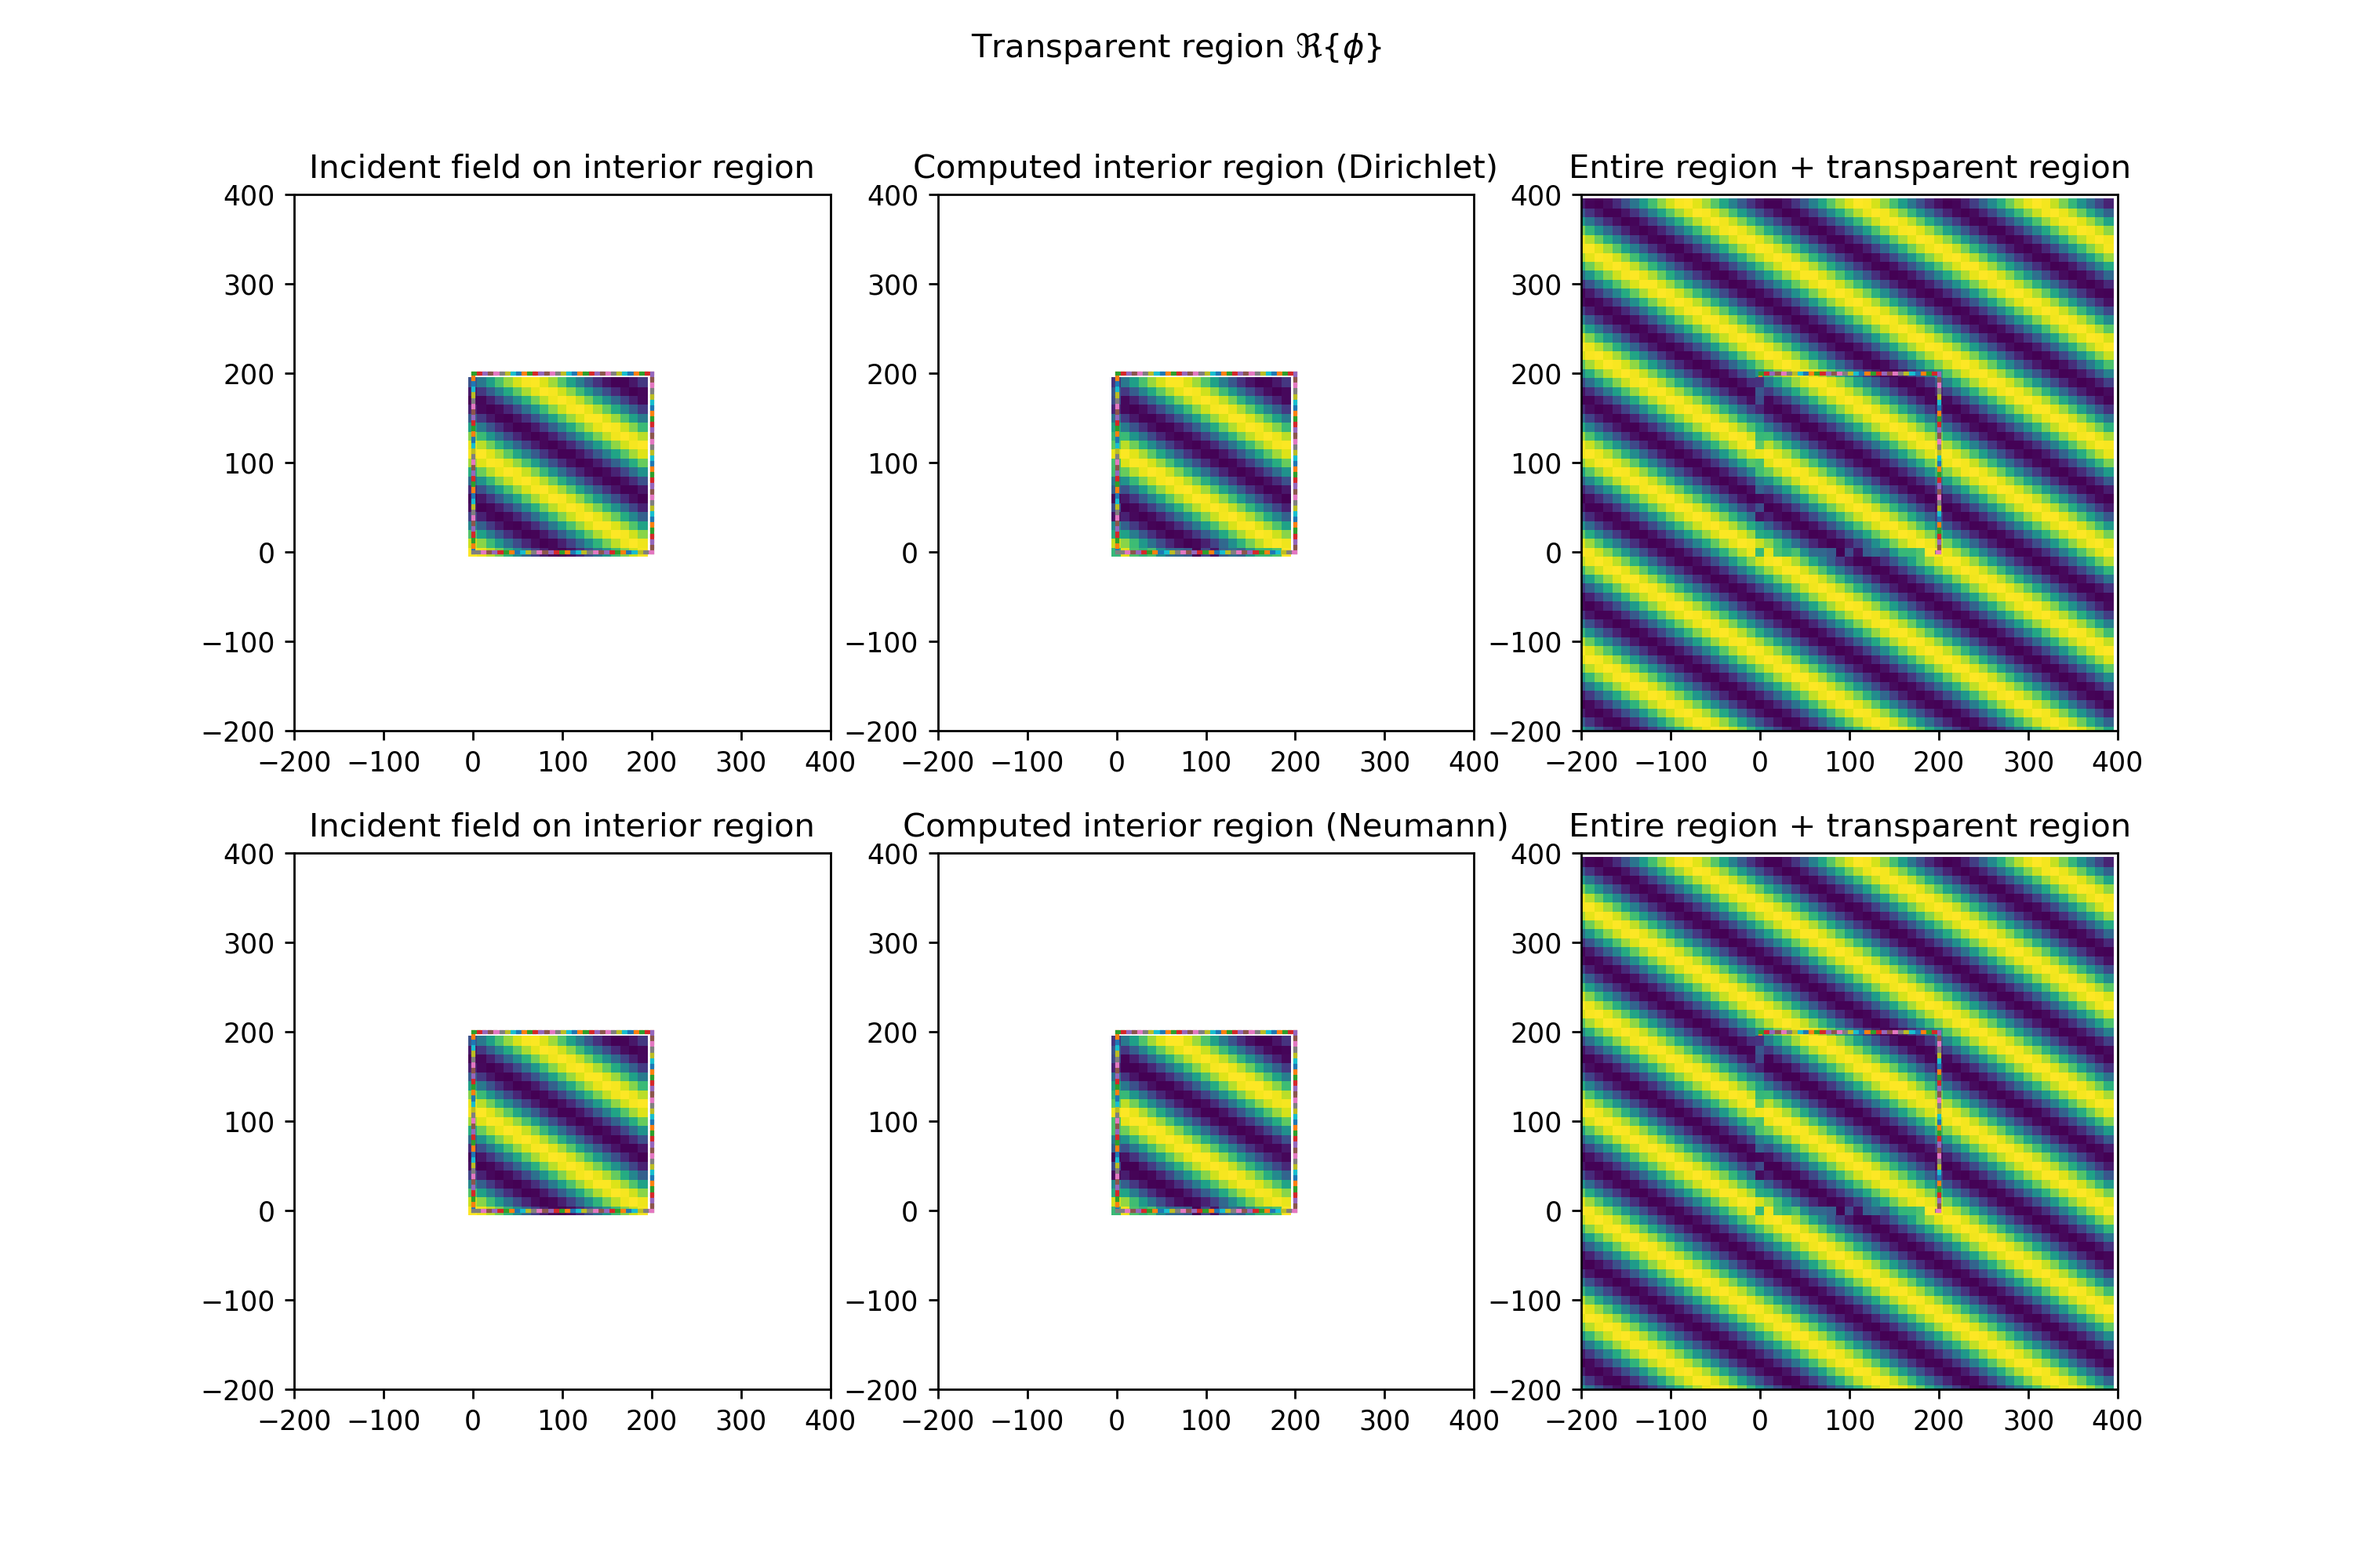
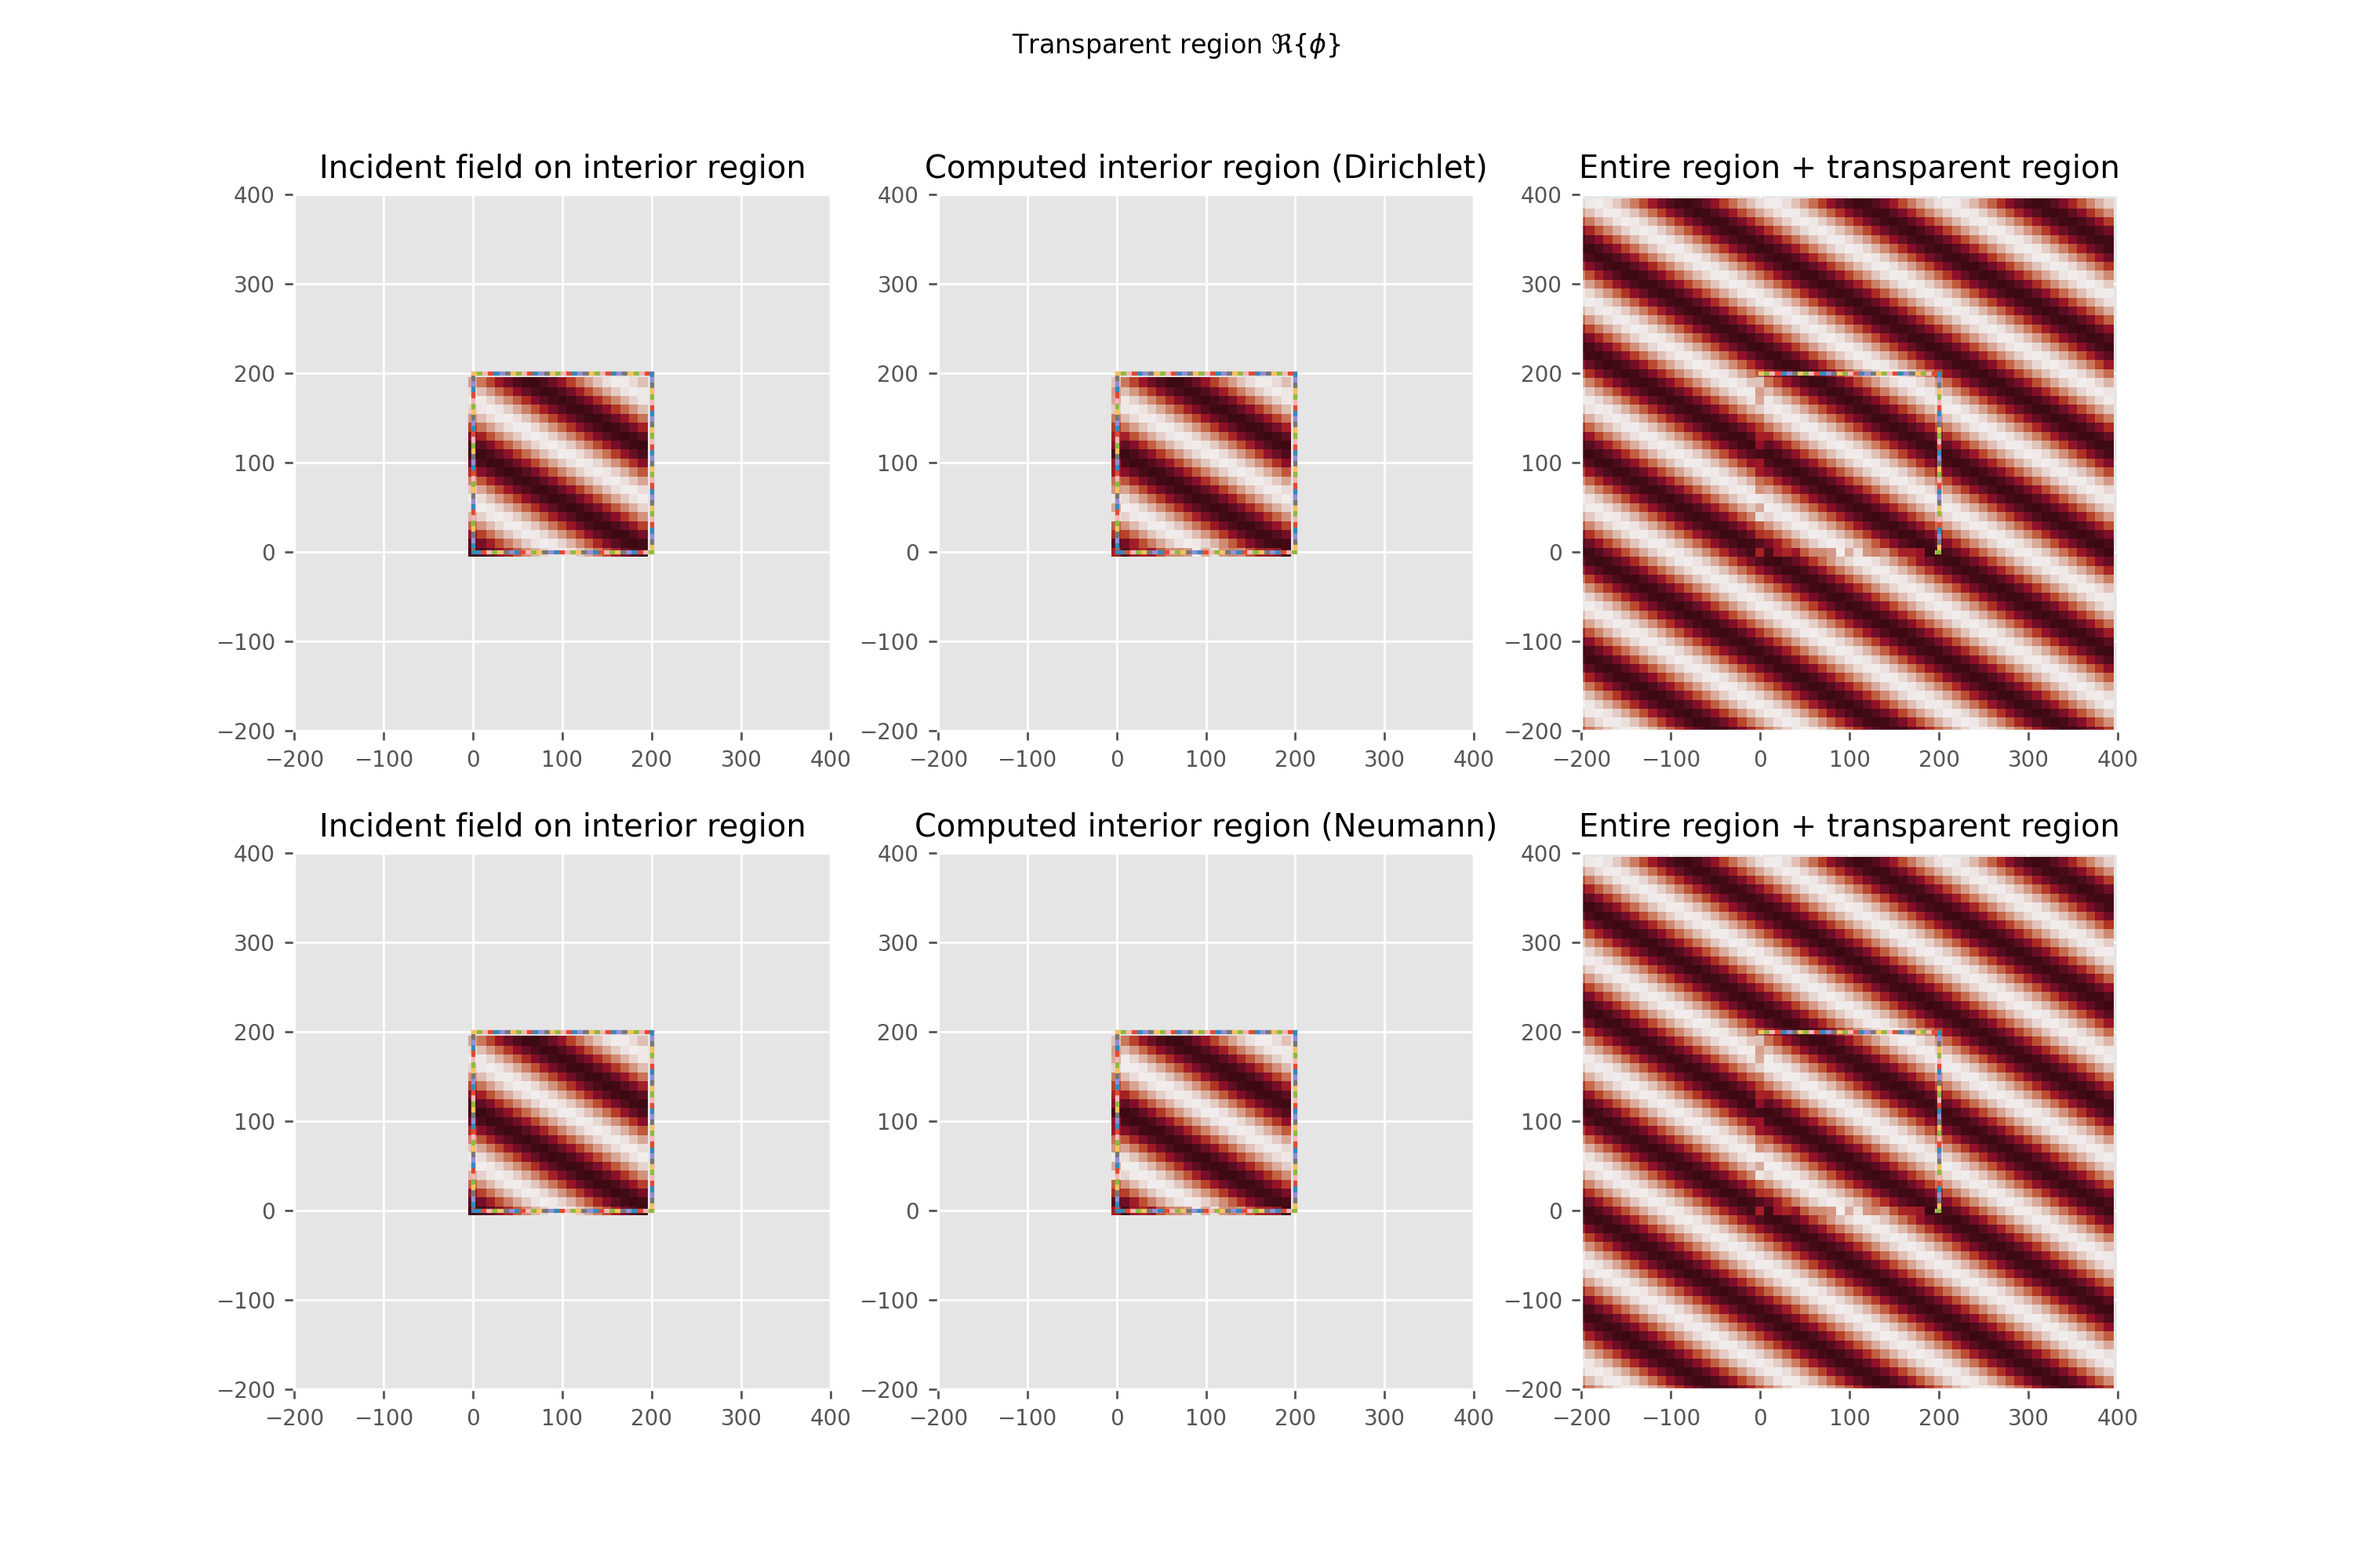
transparent oblique

diff --git a/python/ohbemn/__init__.py b/python/ohbemn/__init__.py
@@ -2,7 +2,16 @@ from .ohbemn import *  # rust implementation
 from . import ohpy
 from .ohpy import wave
 
-
 __doc__ = ohbemn.__doc__
 if hasattr(ohbemn, "__all__"):
     __all__ = ohbemn.__all__
+
+
+def style_plots():
+    import matplotlib as mpl
+    import cmocean
+    mpl.style.use('ggplot')
+    mpl.rc('image', cmap='cmo.amp')
+
+    font = {'size': 8}
+    mpl.rc('font', **font)

diff --git a/examples/transparent_region.py b/examples/transparent_region.py
@@ -1,8 +1,10 @@
 import numpy as np
 import matplotlib.pyplot as plt
 
-from ohbemn import Solver, Region, ohpy, Orientation
+from ohbemn import Solver, Region, ohpy, Orientation, style_plots
 from ohbemn.ohpy import wave, source
+
+style_plots()
 
 T = 8.   # [s]
 f = 1/T

diff --git a/python/ohbemn/ohpy/__init__.py b/python/ohbemn/ohpy/__init__.py
@@ -2,3 +2,4 @@ from . import geometry
 from . import wave
 from .boundary import Region
 from .solver import Solver
+
